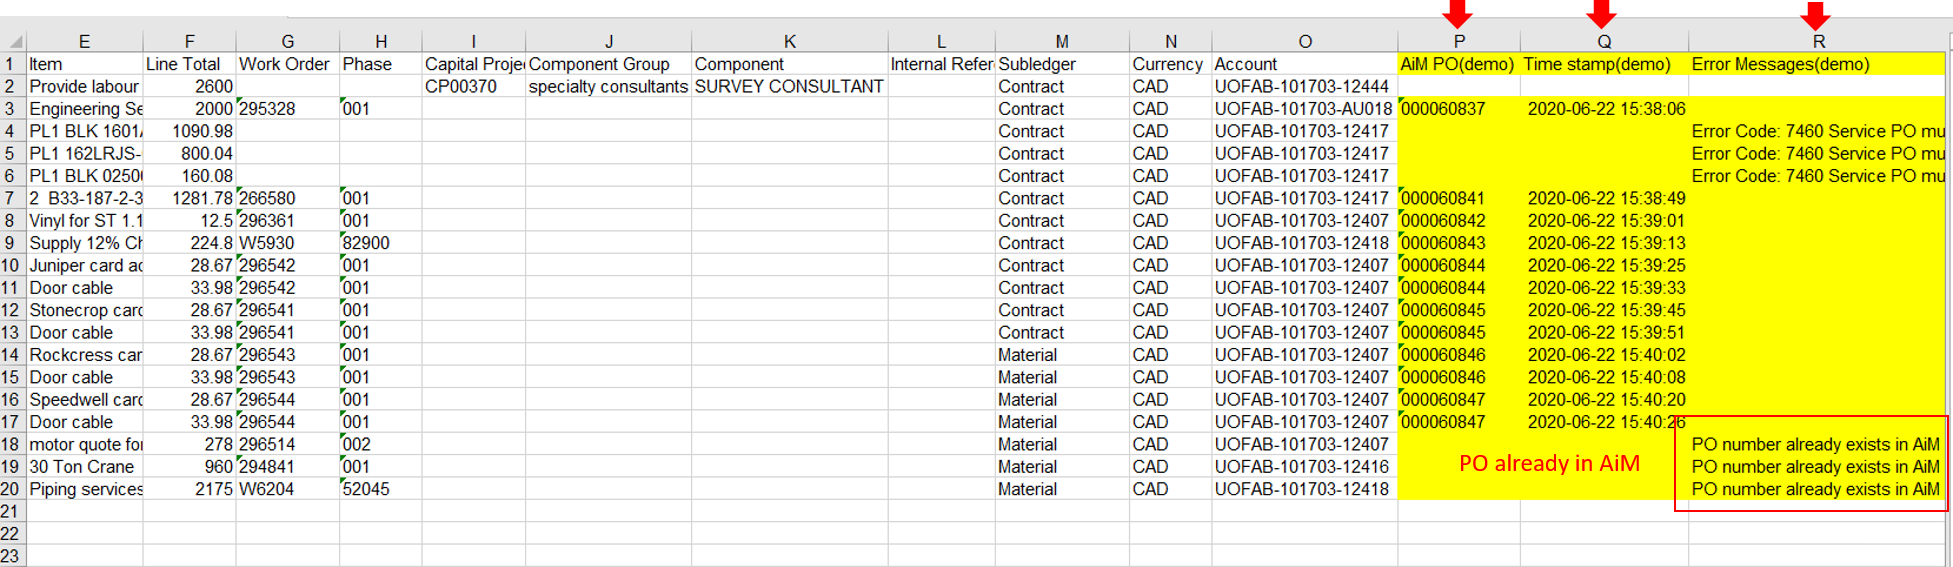
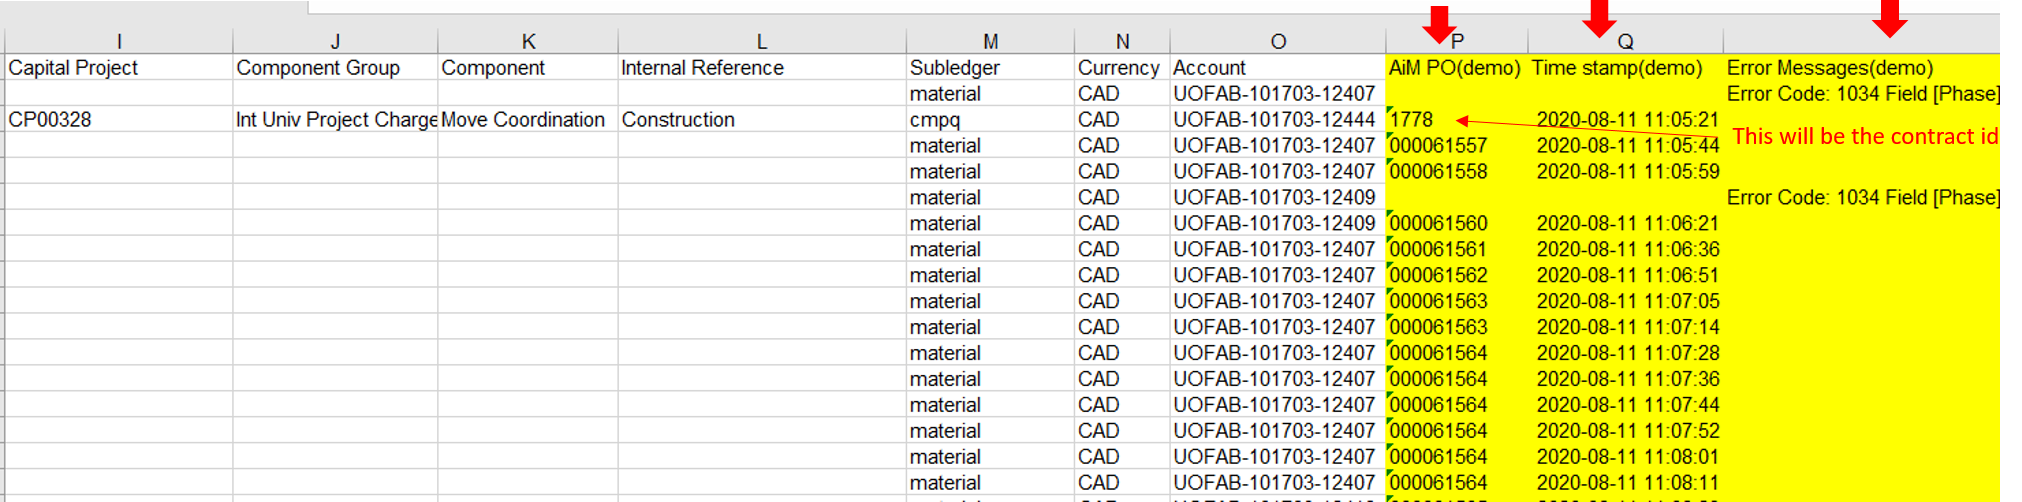
updated

diff --git a/backend/README.md b/backend/README.md
@@ -18,11 +18,14 @@
 
 # Important Notes for Users
 
-1. Before running the RPA program, the excel file should be edited. Column M's value should either be *"Material"* or *"Contract"*, indicating if this PO's subledger is "Material" or "Contract". Otherwise, the corresponding row won't be processed.
+1. Before running the RPA program, the excel file should be edited. 
+   * For non-CPPM lines,column M's value should either be *"Material"* or *"Contract"*, indicating if this PO's subledger is "Material" or "Contract"; for CPPM lines, Column M should be the CPPM type. Otherwise, the corresponding row won't be processed.
+   * For CPPM lines, column L should indicate whether it's a "construction" contract or a "consultant" contract. It's not case-sensitive, but spelling must be right.
 
 ![excel edit](images/excel_edit.png)
 
 2. Always check the downloads.xlsx after the program finishes. The program should log the PO code in AiM. Column P, Q and R are **auto generated** by this RPA program. Please manually check those error messages. Notice the new columns end with *"(demo)"* or *"(prod)"*
+   * For CPPM lines, column P will store the contract id saved in AiM system.
 
 ![excel output](images/excel_output.png)
 
